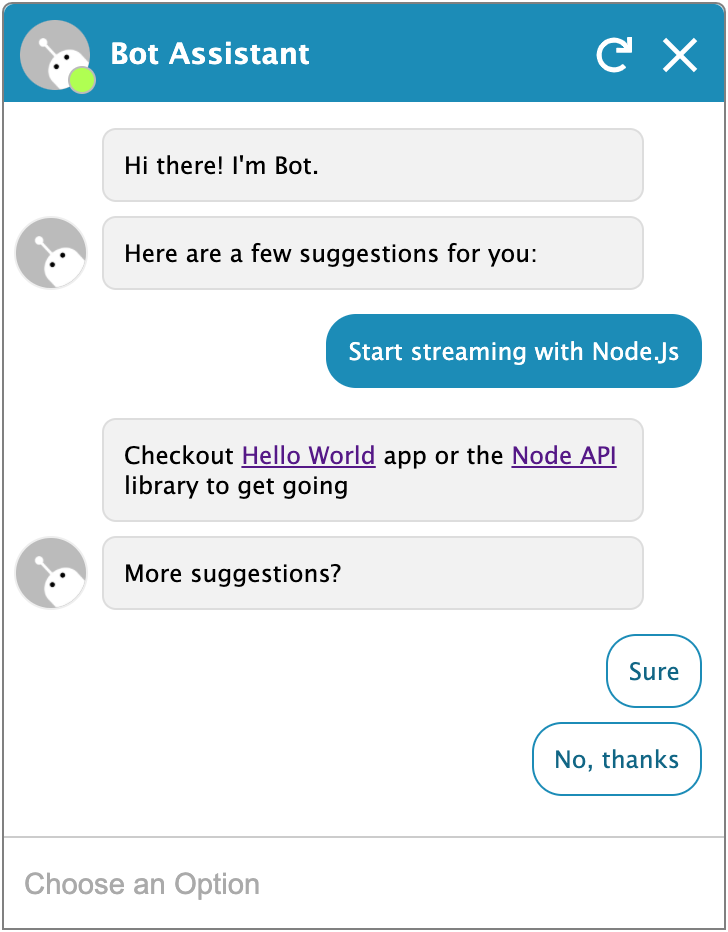
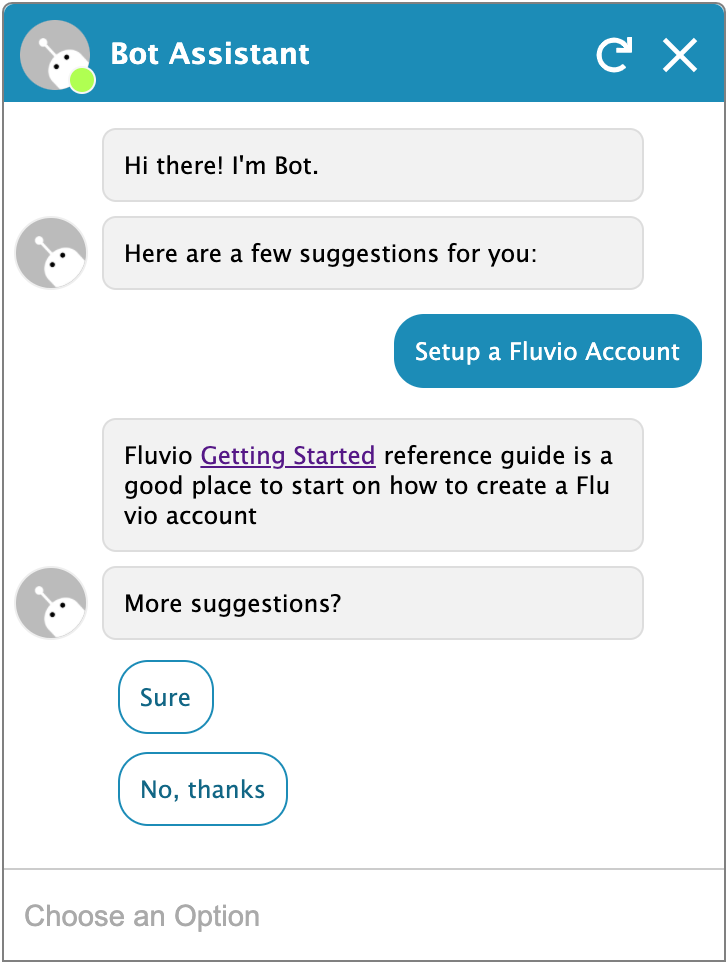
move choices to the left

diff --git a/bot-assistant/bot-client/css/assistant.css b/bot-assistant/bot-client/css/assistant.css
@@ -73,7 +73,7 @@
 }
 
 .assistant .header .overlay {
-	background-color: #bbbbbb;
+	background-color: #f6f6f6;
 	padding: 1px;
 	position: absolute;
 	top: 32px;
@@ -89,7 +89,7 @@
 }
 
 .assistant .header .status.off{
-	background-color: #dedede;
+	background-color: #FF3B28;
 }
 
 .assistant .header .status.on{
@@ -157,6 +157,11 @@
 	margin-right: 30px;
 }
 
+.assistant .msg-left .button {
+	margin: -2px 30px 7px 50px;
+}
+
+
 .assistant .msg-right {
 	position: relative;
 	right: 0px;
@@ -172,6 +177,13 @@
 	border-radius:7px;
 	word-break: break-all;
 }
+
+.assistant .msg-right .button {
+	float: right;
+}
+
+/* button  */
+
 .assistant .btn {
 	display: inline-block;
 	margin: 2px;
@@ -179,7 +191,6 @@
 }
 
 .assistant .button {
-	float: right;
 	width: max-content;
 	border-radius:15px;
 	padding: 10px;

diff --git a/bot-assistant/bot-client/scripts/assistant.js b/bot-assistant/bot-client/scripts/assistant.js
@@ -250,9 +250,9 @@ window.onload = () => {
                 buttons.push(createElement("div", { "class": "btn" }, button));
             });
 
-            var msgRight = createElement("div", { "class": "msg-right", "id": groupId }, buttons);
+            var msgLeft = createElement("div", { "class": "msg-left", "id": groupId }, buttons);
 
-            document.querySelector(".msg-body").appendChild(msgRight);
+            document.querySelector(".msg-body").appendChild(msgLeft);
             scrollToBottom(".inner-body");
         }
     }
